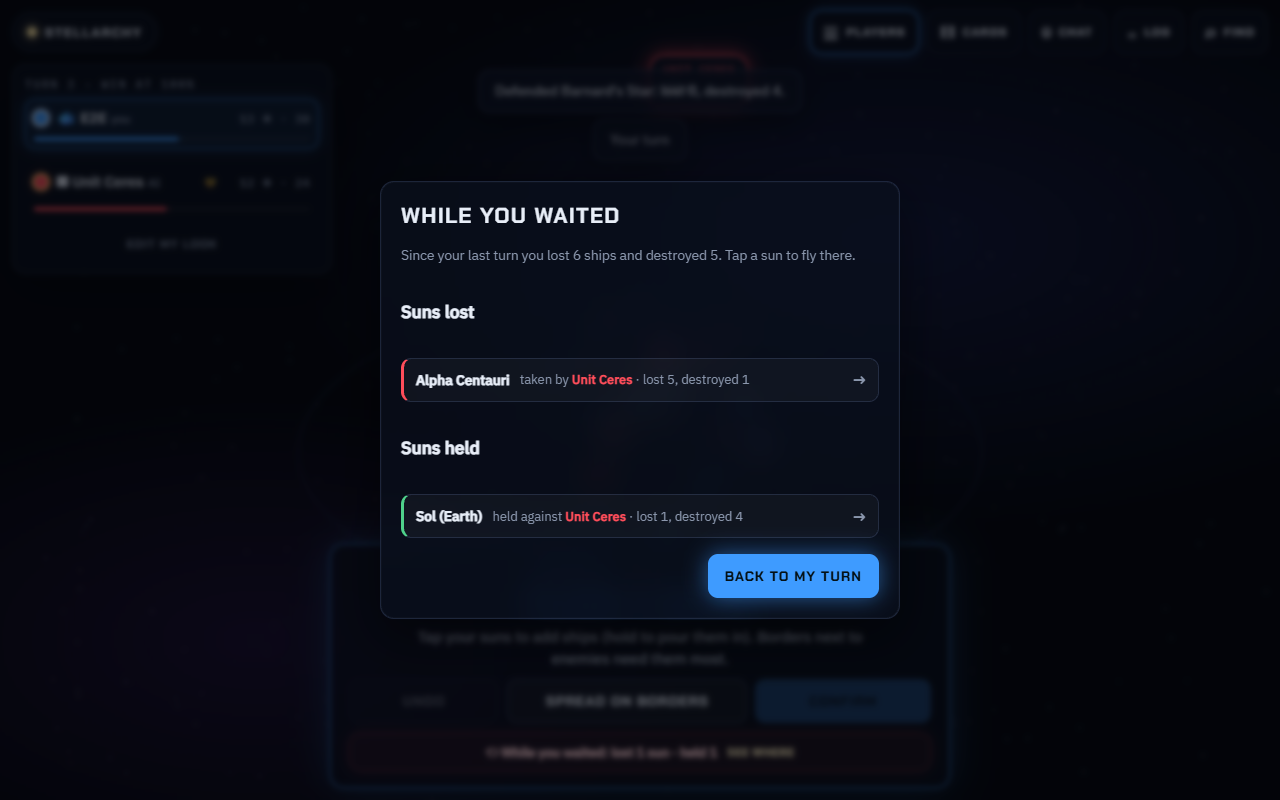
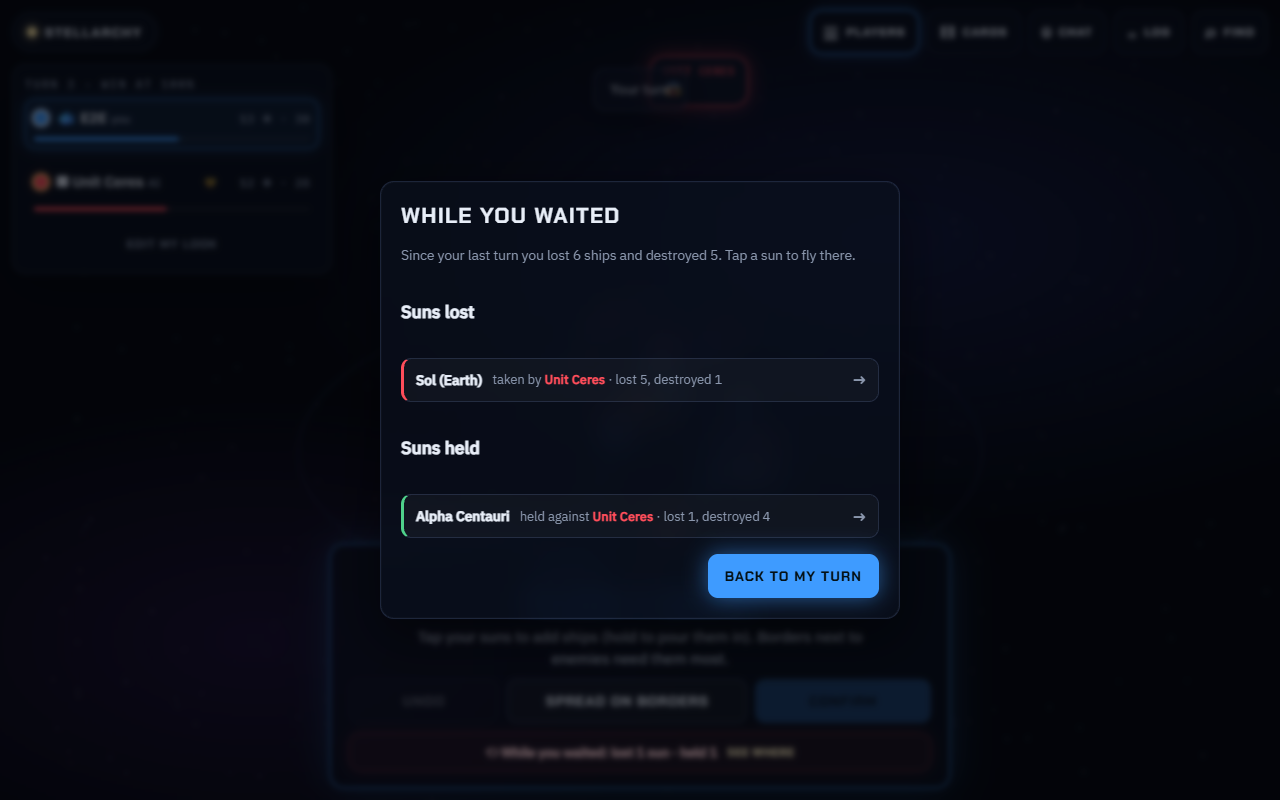
Notes to the developer (button, Notes DO, run.ps1 notes to markdown); build step for GitHub deploys

diff --git a/client/app.js b/client/app.js
@@ -170,6 +170,7 @@ $("mCreate").onclick = () => needName(createDialog);
 $("mJoin").onsubmit = e => { e.preventDefault(); needName(() => joinCode($("joinCode").value)); };
 $("mRooms").onclick = roomsDialog;
 $("mCredits").onclick = e => { e.preventDefault(); creditsDialog(); };
+$("mNote").onclick = e => { e.preventDefault(); noteDialog(); };
 $("mHow").onclick = e => { e.preventDefault(); howDialog(); };
 
 function optionSeg(name, opts, cur) { return `<div class="seg" data-seg="${name}">${opts.map(([v, l]) => `<button type="button" data-v="${v}" aria-pressed="${String(v) === String(cur)}">${esc(l)}</button>`).join("")}</div>`; }
@@ -619,7 +620,7 @@ $("hMenu").onclick = () => openDialog(`<div class="dlg"><h2>Menu</h2>
   <div class="field"><span>Battle effects</span><div class="seg" id="mFx">${[["full", "Full"], ["quick", "Quick"], ["off", "Off"]].map(([v, l]) => `<button type="button" data-v="${v}" aria-pressed="${store.get("stellarchy_fx", "full") === v}">${l}</button>`).join("")}</div><p class="hint">Quick plays lasers and flights faster; Off moves ships at once with no lasers or debris. Fast and Instant paces use Quick automatically.</p></div>
   <div class="field"><span>Motion</span><div class="seg"><button type="button" id="mCalm" aria-pressed="${document.body.classList.contains("calm")}">Calm motion</button></div><p class="hint">No camera glides, spinning or bouncing interface. Battles still show.</p></div>
   ${"Notification" in window && Notification.permission === "default" ? `<button class="btn" id="mNotify" type="button">Alert me when it's my turn</button>` : ""}
-  <div class="row end"><button class="btn ghost" id="mHowIn" type="button">How to play</button><button class="btn" id="mLeave" type="button">Leave game</button><button class="btn go" id="mBack" type="button">Back to the war</button></div></div>`, el => {
+  <div class="row end"><button class="btn ghost" id="mHowIn" type="button">How to play</button><button class="btn ghost" id="mNoteIn" type="button">✉ Note to the developer</button><button class="btn" id="mLeave" type="button">Leave game</button><button class="btn go" id="mBack" type="button">Back to the war</button></div></div>`, el => {
     el.querySelector("#mNames").onclick = () => { ui.allNames = !ui.allNames; scene.setAllNames(ui.allNames); dlg.close(); };
     el.querySelector("#mSpin").onclick = () => { ui.spin = !ui.spin; scene.setAutoRotate(ui.spin); dlg.close(); };
     el.querySelectorAll("#mFx button").forEach(b => b.onclick = () => { store.set("stellarchy_fx", b.dataset.v); scene.setEffects(effectsMode()); dlg.close(); });
@@ -630,6 +631,7 @@ $("hMenu").onclick = () => openDialog(`<div class="dlg"><h2>Menu</h2>
     el.querySelector("#mSym").onclick = () => { const on = !store.get("stellarchy_symbols", false); store.set("stellarchy_symbols", on); scene.setSymbols(on); dlg.close(); };
     const nb = el.querySelector("#mNotify"); if (nb) nb.onclick = () => { Notification.requestPermission(); dlg.close(); };
     el.querySelector("#mHowIn").onclick = () => howDialog();
+    el.querySelector("#mNoteIn").onclick = () => noteDialog();
     el.querySelector("#mLeave").onclick = () => leaveRoom(); el.querySelector("#mBack").onclick = () => dlg.close();
   });
 $("hCode").onclick = share;
@@ -878,6 +880,35 @@ function copySetup(kind, o) {
 {
   const p = new URLSearchParams(location.search), kind = p.get("play");
   if (kind === "solo" || kind === "room") { const preset = readSetup(p); history.replaceState(null, "", "/"); needName(() => kind === "solo" ? soloDialog(preset) : createDialog(preset)); }
+}
+
+// ---------- a note to the developer: a bug, an idea, or just "love it"; Paul reads them with tools/notes.mjs ----------
+const NOTE_MAX = 2000;
+function noteDialog() {
+  const draft = store.get("stellarchy_note_draft", ""), kinds = [["bug", "🐞 Bug"], ["idea", "💡 Idea"], ["love", "💜 Love it"], ["other", "💬 Other"]];
+  let kind = "idea";
+  openDialog(`<div class="dlg note"><h2>A note to the developer</h2>
+    <p class="hint">Found a bug, have an idea, or just enjoying it? Every note is read. It's sent with your screen size and where you are in the game, nothing else.</p>
+    <div class="field"><span>What kind</span><div class="seg" id="nKind">${kinds.map(([v, l]) => `<button type="button" data-v="${v}" aria-pressed="${v === kind}">${l}</button>`).join("")}</div></div>
+    <div class="field"><label for="nText">Your note</label><textarea id="nText" rows="6" maxlength="${NOTE_MAX}" placeholder="What happened, or what would make it better?">${esc(draft)}</textarea>
+      <p class="hint count" id="nCount"></p></div>
+    <div class="field"><label for="nName">Your name (optional)</label><input id="nName" maxlength="24" autocomplete="off" placeholder="Anonymous"></div>
+    <div class="row end"><button class="btn ghost" id="nCancel" type="button">Cancel</button><button class="btn go" id="nSend" type="button">Send note</button></div></div>`, el => {
+    const text = el.querySelector("#nText"), count = el.querySelector("#nCount"), sendBtn = el.querySelector("#nSend");
+    const upd = () => { const n = text.value.trim().length; count.textContent = `${text.value.length} / ${NOTE_MAX}`; sendBtn.disabled = n < 3; store.set("stellarchy_note_draft", text.value); };
+    text.oninput = upd; upd(); setTimeout(() => text.focus(), 50);
+    el.querySelectorAll("#nKind button").forEach(b => b.onclick = () => { kind = b.dataset.v; el.querySelectorAll("#nKind button").forEach(x => x.setAttribute("aria-pressed", x === b)); });
+    el.querySelector("#nCancel").onclick = () => dlg.close();
+    sendBtn.onclick = async () => {
+      sendBtn.disabled = true; sendBtn.textContent = "Sending…";
+      const g = st && st.game, context = { screen: `${innerWidth}x${innerHeight}`, room: st && st.code || "", status: st ? st.status : "menu", turn: g ? g.turnNo : null, solo: !!(st && st.local) };
+      const r = await fetch("/api/notes", { method: "POST", body: JSON.stringify({ kind, text: text.value, name: el.querySelector("#nName").value, context }) }).catch(() => null);
+      const body = r ? await r.json().catch(() => ({})) : {};
+      if (r && r.ok) { store.set("stellarchy_note_draft", ""); dlg.close(); toast("Thanks! Your note is on its way. 💜"); return; }
+      sendBtn.disabled = false; sendBtn.textContent = "Send note";
+      toast(body.error || "Couldn't send it just now (are you offline?). Your note is kept here; try again later.", "err");
+    };
+  });
 }
 
 // ---------- how to play ----------

diff --git a/server/worker.js b/server/worker.js
@@ -47,6 +47,19 @@ export default {
       }
       return new Response("could not make a room", { status: 503 });
     }
+    // notes to the developer (round 42): anyone can leave one; only Paul's key reads them back (tools/notes.mjs)
+    if (p === "/api/notes") {
+      const stub = env.NOTES.get(env.NOTES.idFromName("notes"));
+      if (req.method === "POST") {
+        const ip = req.headers.get("CF-Connecting-IP") || "local";
+        return stub.fetch(`https://notes/add?ip=${encodeURIComponent(ip)}${env.DEV && !req.headers.get("x-limit-test") ? "&relaxed=1" : ""}`, { method: "POST", body: await req.text() });
+      }
+      if (req.method === "GET") {
+        if (!env.NOTES_KEY || req.headers.get("x-notes-key") !== env.NOTES_KEY) return new Response("not allowed", { status: 403 });
+        return stub.fetch(`https://notes/list?after=${encodeURIComponent(url.searchParams.get("after") || "0")}`);
+      }
+      return new Response("method not allowed", { status: 405 });
+    }
     if (p === "/api/rooms" && req.method === "GET") return env.LOBBY.get(env.LOBBY.idFromName("lobby")).fetch("https://lobby/list");
     const m = p.match(/^\/api\/rooms\/([A-Za-z0-9]{4})(\/ws)?$/);
     if (m) {
@@ -93,5 +106,36 @@ export class Lobby {
     }
     const list = Object.values(this.rooms).sort((a, b) => (a.status === "lobby" ? 0 : 1) - (b.status === "lobby" ? 0 : 1) || b.seen - a.seen).slice(0, 50);
     return Response.json({ rooms: list });
+  }
+}
+
+// Notes to the developer: kept in order, each with a number, the kind, the text and a little context (screen size,
+// room). Visitors' addresses are used only for the hourly limit, in memory, and never stored.
+const NOTE_MAX = 2000, NOTES_PER_HOUR = 5;
+const NOTE_KINDS = ["bug", "idea", "love", "other"];
+export class Notes {
+  constructor(ctx) { this.ctx = ctx; this.recent = new Map(); }
+  async fetch(req) {
+    const url = new URL(req.url), now = Date.now();
+    if (url.pathname === "/add") {
+      const ip = url.searchParams.get("ip") || "unknown", mine = (this.recent.get(ip) || []).filter(t => now - t < 3600000);
+      if (mine.length >= (url.searchParams.get("relaxed") ? 1000 : NOTES_PER_HOUR)) return Response.json({ ok: false, error: "Thanks! That's plenty of notes for one hour. Try again later." }, { status: 429 });
+      let m = {}; try { m = JSON.parse((await req.text()).slice(0, 8000)); } catch (e) {}
+      const clean = (s, n) => String(s ?? "").replace(/[\u0000-\u0008\u000b-\u001f\u007f]/g, "").trim().slice(0, n);
+      const text = clean(m.text, NOTE_MAX); if (text.length < 3) return Response.json({ ok: false, error: "Write a few words first." }, { status: 400 });
+      mine.push(now); this.recent.set(ip, mine); if (this.recent.size > 5000) this.recent.clear();
+      const id = ((await this.ctx.storage.get("next")) || 1);
+      const c = m.context && typeof m.context === "object" ? m.context : {};
+      const note = { id, at: new Date(now).toISOString(), kind: NOTE_KINDS.includes(m.kind) ? m.kind : "other", name: clean(m.name, 24), text,
+                     context: { screen: clean(c.screen, 20), room: clean(c.room, 8), status: clean(c.status, 12), turn: Number.isFinite(+c.turn) ? +c.turn : null, solo: !!c.solo } };
+      await this.ctx.storage.put({ ["n:" + String(id).padStart(8, "0")]: note, next: id + 1 });
+      return Response.json({ ok: true, id });
+    }
+    if (url.pathname === "/list") {
+      const after = Math.max(0, +url.searchParams.get("after") || 0);
+      const got = await this.ctx.storage.list({ prefix: "n:", start: "n:" + String(after + 1).padStart(8, "0"), limit: 500 });
+      return Response.json({ notes: [...got.values()] });
+    }
+    return new Response("not found", { status: 404 });
   }
 }

diff --git a/tests/room.int.js b/tests/room.int.js
@@ -206,6 +206,20 @@ for (const c of [a, bb, sneaky]) c.ws.close();
   let s; for (let k = 0; k < 240; k++) { s = await (await fetch(BASE + `/api/rooms/${lc}`)).json(); if (s.status === "over") break; await sleep(500); }
   check(s.status === "over" && s.calls && s.calls.report <= 15, `a public game of ${s.turnNo} turns and ${s.calls && s.calls.alarm} AI moves sent the lobby ${s.calls && s.calls.report} reports`);
 }
+// notes to the developer (round 42): anyone can send one; only the key reads them; empty and spammy notes are refused
+{
+  const post = (body, hdr = {}) => fetch(BASE + "/api/notes", { method: "POST", headers: hdr, body: JSON.stringify(body) });
+  const sent = await post({ kind: "idea", text: "More fish ships please " + "x".repeat(3000), name: "Tester", context: { screen: "800x600", room: "ABCD", status: "playing", turn: 7 } });
+  const { id } = await sent.json();
+  const empty = await post({ kind: "bug", text: "  " });
+  const noKey = await fetch(BASE + "/api/notes");
+  const list = await (await fetch(BASE + `/api/notes?after=${id - 1}`, { headers: { "x-notes-key": "local-notes-key" } })).json();
+  const mine = list.notes.find(n => n.id === id);
+  check(sent.ok && empty.status === 400 && noKey.status === 403 && mine && mine.text.length === 2000 && mine.context.room === "ABCD", "a note is saved (cut to 2,000 characters), empty notes are refused, and only the key reads them");
+  const ip = "198.51.100." + Math.floor(Math.random() * 250), codes = [];
+  for (let k = 0; k < 6; k++) codes.push((await post({ text: "note " + k }, { "x-limit-test": "1", "CF-Connecting-IP": ip })).status);
+  check(codes.slice(0, 5).every(c => c === 200) && codes[5] === 429, `the 6th note in an hour from one visitor is refused (${codes.join(",")})`);
+}
 // an idle room closes itself (needs DEV=1 in .dev.vars for the short idle time)
 {
   const r = await fetch(BASE + "/api/rooms", { method: "POST", body: JSON.stringify({ maxSeats: 2, public: true, idleMs: 1500 }) });

diff --git a/client/style.css b/client/style.css
@@ -85,6 +85,11 @@ a { color: var(--gold); }
 .recaprow:hover, .recaprow:focus-visible { border-color: var(--line2); background: rgba(255, 255, 255, .06); }
 @media (max-width: 520px) { .recaprow { grid-template-columns: 1fr auto; } .recaprow span { grid-column: 1; } .recaprow i { grid-row: 1 / 3; grid-column: 2; } }
 
+/* note to the developer (round 42) */
+textarea { font: .95rem/1.45 var(--body); color: inherit; width: 100%; resize: vertical; min-height: 120px; padding: 10px 12px; border-radius: 10px; border: 1px solid var(--line2); background: rgba(0, 0, 0, .35); }
+textarea:focus { outline: none; border-color: var(--me); box-shadow: 0 0 0 3px color-mix(in srgb, var(--me) 25%, transparent); }
+.dlg.note .count { text-align: right; margin: 4px 0 0; }
+
 /* ---------- title ---------- */
 .screen { position: fixed; inset: 0; display: grid; place-items: center; padding: var(--top) var(--gutr) var(--bot) var(--gut); overflow: auto; z-index: 3;
   background: radial-gradient(ellipse at center, rgba(4, 6, 11, .1) 0%, rgba(4, 6, 11, .65) 75%); }

diff --git a/client/index.html b/client/index.html
@@ -37,7 +37,7 @@
       <button class="btn ghost" id="mWatch" type="button">Watch an AI war</button>
     </div>
     <div class="you" id="youCard"></div>
-    <p class="fine">Free. No account, no tokens, no limits on how much you play. <a href="#" id="mHow">How to play</a> · <a href="#" id="mCredits">Credits</a></p>
+    <p class="fine">Free. No account, no tokens, no limits on how much you play. <a href="#" id="mHow">How to play</a> · <a href="#" id="mCredits">Credits</a> · <a href="#" id="mNote">✉ Note to the developer</a></p>
   </div>
 </section>
 

diff --git a/TODO.md b/TODO.md
@@ -566,3 +566,9 @@ Sources:
   - Measured the cost of an online game (`run.ps1 measure`): about 1,000–4,000 requests for a 4-seat, 100-sun game.
   - Paul: taking the $5 Workers Paid plan; GitHub repo https://github.com/maiqs/Stellarchy (not pushed; waiting for his go).
   - 52 of 52 unit tests, 20 of 20 browser checks and 36 of 36 room checks pass.
+- **Paul, 2026-11-26 (direct request, after round 41):**
+  - ✉ Note to the developer, on the title page and in the Menu. A note has a kind (bug, idea, love it, other), up to 2,000 characters and an optional name, and is sent with the screen size and game position. Notes are stored in a Notes Durable Object, limited to 5 per visitor per hour.
+  - `.\run.ps1 notes [address]` appends them to running markdown files in `feedback/`, a new file every ~20,000 characters, for me to process. Reading needs the `NOTES_KEY` secret. `feedback/` stays out of git.
+  - Deploying from GitHub: wrangler now runs `tools/sync.mjs` as its build step, since the generated files are not in git. A dry-run deploy from a fresh clone builds (3,048 files, 447 KB Worker). A stale `client/data/star_map.json` was dropped from the offline cache.
+  - Fixed: raw control characters had slipped into a regex through shell escaping; a scan of all source files found no others.
+  - 52 of 52 unit tests, 21 of 21 browser checks and 38 of 38 room checks pass.

diff --git a/README.md b/README.md
@@ -32,3 +32,11 @@ Stellarchy's sounds are synthesised in the browser (client/sound.js); there are 
   - Fomalhaut: NASA, ESA and P. Kalas (UC Berkeley), heic0821a
   - All three are CC BY 4.0 via esahubble.org.
 - The Sun: NASA/SDO and the AIA, EVE and HMI science teams (public domain).
+
+## Notes to the developer
+
+Players can leave a note (🐞 Bug, 💡 Idea, 💜 Love it, or 💬 Other) from the title page or the in-game Menu. A note can be up to 2,000 characters, and each visitor can send 5 an hour. Visitors' addresses are used only for that limit and are never stored.
+
+- **Read them:** `.\run.ps1 notes https://<the live address>` appends new notes to `feedback/notes-001.md`, `notes-002.md` and so on, starting a new file every ~20,000 characters. With no address it reads the local dev server.
+- **The key:** reading needs a secret key. Set it once on Cloudflare with `npx wrangler secret put NOTES_KEY`, and save the same text in a file called `.notes-key` here. Locally the key is in `.dev.vars`.
+- **Privacy:** `feedback/` and `.notes-key` are in `.gitignore`, so players' notes never go to GitHub.
